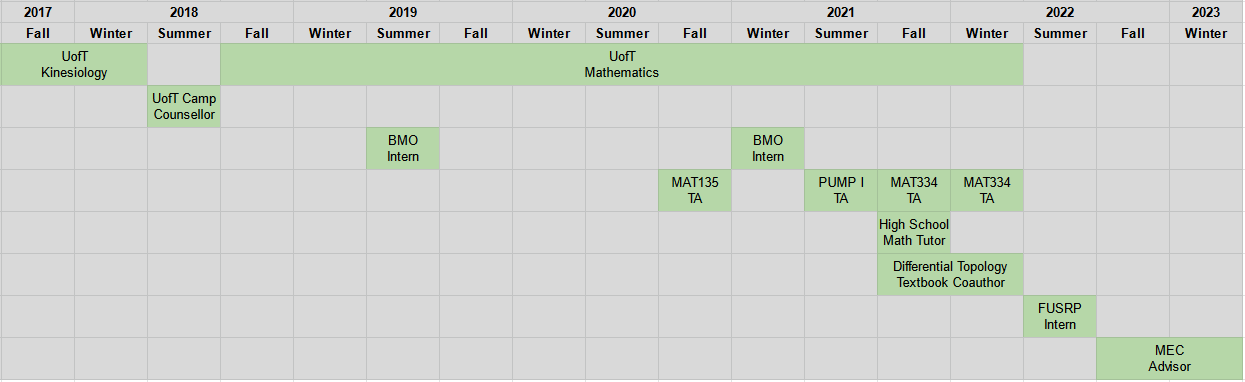
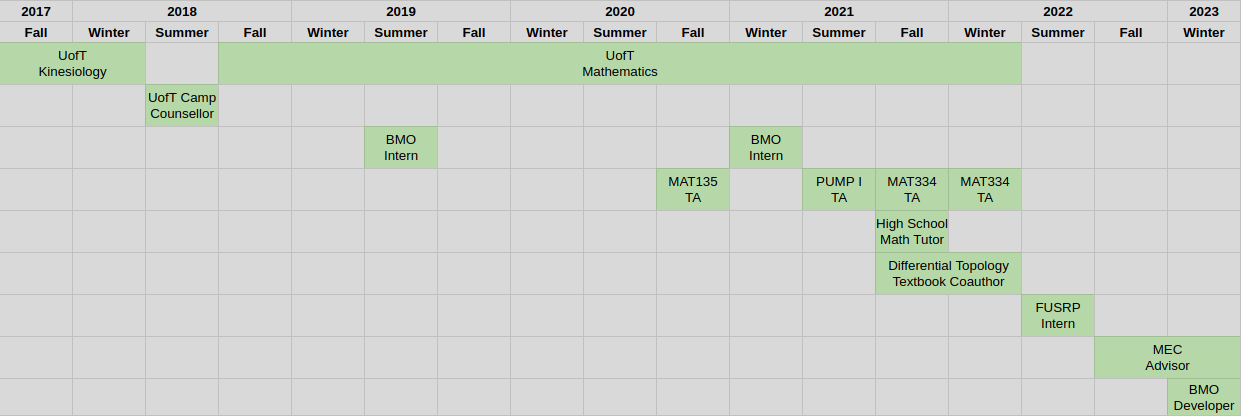
update: added new job at bmo; added acceptance to mscac;

diff --git a/index.html b/index.html
@@ -124,6 +124,9 @@
 				<p>
 					Upon graduating at the age of twenty-three, he again stayed in Toronto and picked up a job selling <a href="https://en.wikipedia.org/wiki/Rock-climbing_equipment">climbing equipment</a> at <a href="https://en.wikipedia.org/wiki/Mountain_Equipment_Company">Mountain Equipment Company</a>. He is currently waiting to hear back from the numerous <a href="https://en.wikipedia.org/wiki/Postgraduate_education">graduate</a> programs he applied to.<sup>[<a href="#source-fake-interview">1</a>]</sup>
 				</p>
+				<p>
+					On March 22, 2023, he again decided to stay in Toronto to study <a href="https://mscac.utoronto.ca/concentrations/applied-math">applied mathematics</a> at UofT in the MScAC program.
+				</p>
 				<div class="figure-container figure-center  container-background container-border" style="width:90%;">
 					<a href="images/family_tree.png"><img src="images/family_tree.png" alt="Nathan's family tree." class="figure-image"></a>
 					<figcaption class="figure-caption">Gurrin-Smith's family tree.</figcaption>
@@ -777,7 +780,7 @@
 					</table>
 				</div>
 				<p>
-					In the <a href="https://en.wikipedia.org/wiki/Summer">summer</a> of 2022, Gurrin-Smith graduated from the University of Toronto with an Honours Bachelor of Science with <a href="https://artsci.calendar.utoronto.ca/academic-record">High Distinction</a> and a <a href="https://en.wikipedia.org/wiki/Grading_in_education">cGPA of 3.9</a>. He decided to take a <a href="https://en.wikipedia.org/wiki/Gap_year">gap year</a> before pursuing graduate school. In the fall of 2022 he submitted his application to several graduate programs.
+					In the <a href="https://en.wikipedia.org/wiki/Summer">summer</a> of 2022, Gurrin-Smith graduated from the University of Toronto with an Honours Bachelor of Science with <a href="https://artsci.calendar.utoronto.ca/academic-record">High Distinction</a> and a <a href="https://en.wikipedia.org/wiki/Grading_in_education">cGPA of 3.9</a>. He decided to take a <a href="https://en.wikipedia.org/wiki/Gap_year">gap year</a> before pursuing graduate school. In the fall of 2022 he submitted his application to several graduate programs. On March 22, 2023, he accepted his offer of admission to the <a href="https://mscac.utoronto.ca">MScAC</a> program at UofT.
 				</p>
 				<h5 class="heading">Graduate Applications [<input class="link-button" id="graduate-applications-button" type="button" value="show" onclick='collapse("graduate-applications-wrapper","graduate-applications-button", "hide", "show")'>]</h5>
 				<div id="graduate-applications-wrapper" style="display:none;">
@@ -790,32 +793,32 @@
 						<tr>
 							<td>University of Toronto</td>
 							<td><a href="https://www.math.utoronto.ca/cms/graduate-program/potential-students-grad/">MSc Mathematics</a></td>
-							<td style="background: green;">Accepted</td>
+							<td style="background: #7FBBB3;">Offered</td>
 						</tr>
 						<tr>
 							<td>University of Toronto</td>
 							<td><a href="https://mscac.utoronto.ca/">MScAC</a></td>
-							<td style="background: green;">Accepted</td>
+							<td style="background: #A7C080;">Accepted</td>
 						</tr>
 						<tr>
 							<td>University of British Columbia</td>
 							<td><a href="https://www.grad.ubc.ca/prospective-students/graduate-degree-programs/master-of-science-mathematics">MSc Mathematics</a></td>
-							<td style="background: lightgrey;">TBD</td>
+							<td style="background: #7FBBB3;">Offered</td>
 						</tr>
 						<tr>
 							<td>Yale University</td>
 							<td><a href="https://applied.math.yale.edu/graduate-program-0">PhD Applied Mathematics</a></td>
-							<td style="background: red;">Rejected</td>
+							<td style="background: #E67E80;">Rejected</td>
 						</tr>
 						<tr>
 							<td>New York University</td>
 							<td><a href="https://math.nyu.edu/dynamic/graduate/phd-mathematics/">PhD Mathematics</a></td>
-							<td style="background: lightgrey;">TBD</td>
+							<td style="background: #9DA9A0;">TBD</td>
 						</tr>
 						<tr>
 							<td>University of Texas at Austin</td>
 							<td><a href="https://www.ma.utexas.edu/academics/graduate/graduate-programs">PhD Mathematics</a></td>
-							<td style="background: lightgrey;">TBD</td>
+							<td style="background: #9DA9A0;">TBD</td>
 						</tr>
 					</table>
 				</div>
@@ -834,7 +837,7 @@
 					After this first stage of work, Gurrin-Smith began focusing on work that aligned more with his long-term <a href="https://en.wikipedia.org/wiki/Career">career</a> interests. He was (and purportedly is) still conflicted with what he wanted to do with his future, and so he picked up several jobs of varying flavours. Based on his interest in <a href="https://en.wikipedia.org/wiki/Mathematics">mathematics</a> and <a href="https://en.wikipedia.org/wiki/Education">education</a>, he picked up a job as a <a href="https://en.wikipedia.org/wiki/Teaching_assistant">teaching assistant</a> for <a href="https://en.wikipedia.org/wiki/Calculus">calculus</a> in the fall of 2020, <a href="https://en.wikipedia.org/wiki/Precalculus">precalculus</a> in the summer of 2021, and <a href="https://en.wikipedia.org/wiki/Complex_analysis">complex analysis</a> in the fall of 2021 and <a href="https://en.wikipedia.org/wiki/Winter">winter</a> of 2022. Additionally, he <a href="https://en.wikipedia.org/wiki/Tutoring">tutored</a> grade 11 math in the fall of 2021. On the other side of the coin, he explored his interest in technology when he <a href="https://en.wikipedia.org/wiki/Internship">interned</a> at the <a href="https://en.wikipedia.org/wiki/Bank_of_Montreal">Bank of Montreal</a> in the summer of 2019 and 2021. In his first internship he assisted in <a href="https://en.wikipedia.org/wiki/Product_management">product management</a> and <a href="https://en.wikipedia.org/wiki/Software_quality_assurance">quality assurance</a> of the <a href="https://en.wikipedia.org/wiki/SAP">SAP</a> systems at BMO, and in his second internship he maintained and developed <a href="https://en.wikipedia.org/wiki/Splunk">Splunk</a> reports and dashboards.
 				</p>
 				<p>
-					After finishing school, Gurrin-Smith took a <a href="https://en.wikipedia.org/wiki/Gap_year">gap year</a>. At the start of this year, he researched mathematics in the Fields Undergraduate Summer Research Program at the <a href="https://en.wikipedia.org/wiki/Fields_Institute">Fields Institute</a>. There, he worked with <a href="https://physiology.utoronto.ca/faculty/maurizio-de-pitta">Professor Maurizio De Pitta&#768;</a>, graduate student <a href="https://underline.io/speakers/132339-giulio-bonifazi">Giulio Bonifazi</a>, and two other undergraduates: <a class="not-found internal-link" href="page_not_found.html?title=Bhavya">Bhavya</a> and <a class="not-found internal-link" href="page_not_found.html?title=Faisal">Faisal</a>, to <a href="https://en.wikipedia.org/wiki/Mathematical_model">model</a> <a href="https://en.wikipedia.org/wiki/Calcium">calcium</a> <a href="https://en.wikipedia.org/wiki/Diffusion">diffusion</a> in <a href="https://en.wikipedia.org/wiki/Astrocyte">astrocytes</a>. After this, he further explored his rock climbing interest and picked up a job selling climbing gear at Mountain Equipment Company, where he currently still works.
+					After finishing school, Gurrin-Smith took a <a href="https://en.wikipedia.org/wiki/Gap_year">gap year</a>. At the start of this year, he researched mathematics in the Fields Undergraduate Summer Research Program at the <a href="https://en.wikipedia.org/wiki/Fields_Institute">Fields Institute</a>. There, he worked with <a href="https://physiology.utoronto.ca/faculty/maurizio-de-pitta">Professor Maurizio De Pitta&#768;</a>, graduate student <a href="https://underline.io/speakers/132339-giulio-bonifazi">Giulio Bonifazi</a>, and two other undergraduates: <a class="not-found internal-link" href="page_not_found.html?title=Bhavya">Bhavya</a> and <a class="not-found internal-link" href="page_not_found.html?title=Faisal">Faisal</a>, to <a href="https://en.wikipedia.org/wiki/Mathematical_model">model</a> <a href="https://en.wikipedia.org/wiki/Calcium">calcium</a> <a href="https://en.wikipedia.org/wiki/Diffusion">diffusion</a> in <a href="https://en.wikipedia.org/wiki/Astrocyte">astrocytes</a>. After this, he further explored his rock climbing interest and picked up a job selling climbing gear at Mountain Equipment Company. After a previous coworker at BMO reached out to him asking if he wanted a job, and realizing the impending tuition costs of the MScAC program, he left MEC to work at BMO as a Junior Non-Specialized Developer.
 				</p>
 
 				<div class="figure-container figure-center container-background container-border" style="width:70%;">
